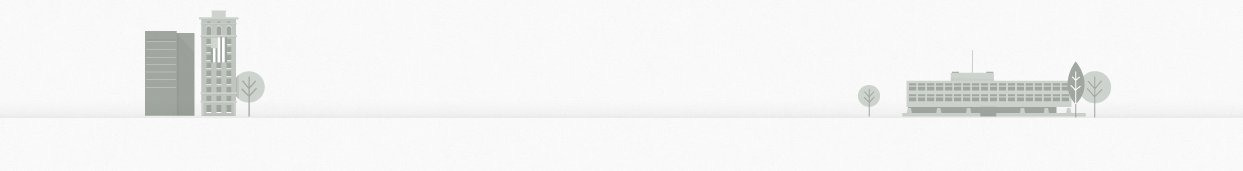
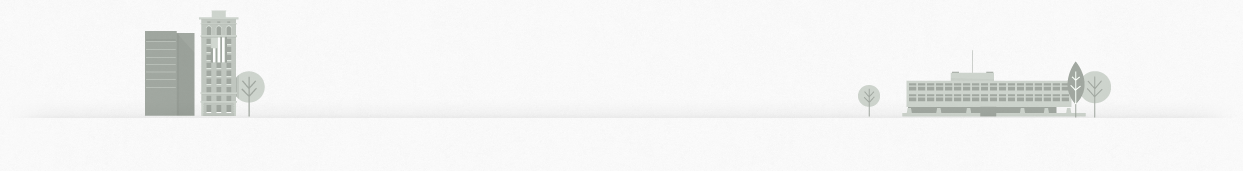
Adjustments to footer illustrations, add fade

diff --git a/views/stylesheets/style.scss b/views/stylesheets/style.scss
@@ -38,8 +38,16 @@ h3 {
 }
 
 .main {
-//	background-color: transparent;
-	background-color: #F9F9F9;
+  position: relative;
+  background: #F9F9F9 url('/images/bg-texture.png') repeat top left;
+  
+  .bg-fade {
+    position: absolute;
+    bottom: -100px;
+    height: 100px;
+    width: 100%;
+    background: url('/images/fade.png') repeat-x top left;
+  }
 }
 
 body.home .main {
